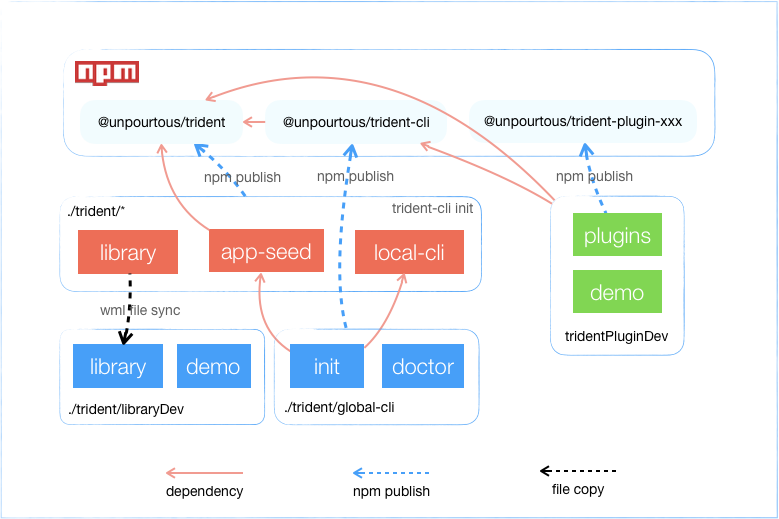
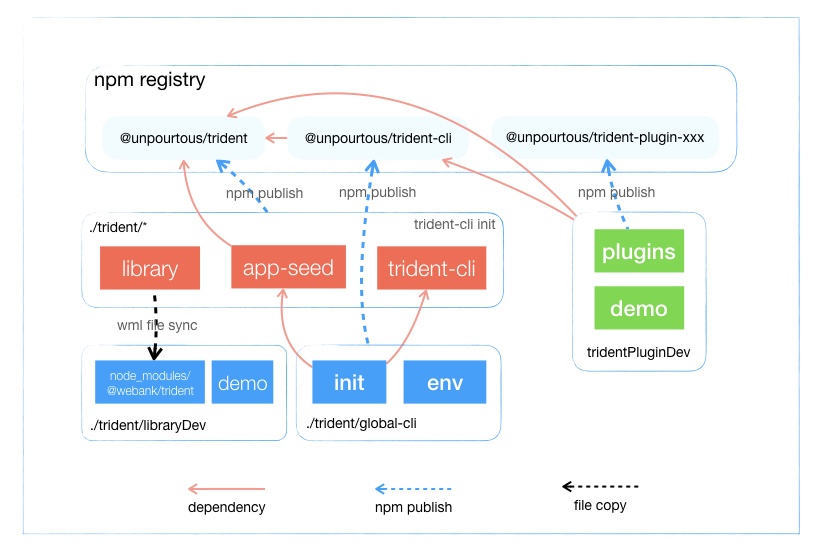
更新文档

diff --git a/docs/CONTRIBUTING.md b/docs/CONTRIBUTING.md
@@ -1,0 +1,179 @@
+---
+id: CONTRIBUTING
+title: CONTRIBUTING
+---
+
+# CONTRIBUTING
+本文档适用于希望参与WeTrident库开发和维护的开发者，非常期待你的参与。
+
+## 1. 下载项目代码库
+``` shell
+git clone git@github.com:WeBankFinTech/WeTrident.git
+
+cd WeTrident
+```
+
+PS: 本文档后续所有相对路径均以 `./WeTrident` 为根路径。
+
+## 2. 认识项目结构
+
+如下是WeTrident的关键目录: 
+
+```
+.
+├── __tests__         # 测试用例目录
+├── app-seed          # 项目模板，包含tab、blank等不同的模板
+├── docs              # 项目文档
+├── library           # WeTrident的核心模块，状态管理、导航、网络等
+├── libraryDev        # WeTrident开发过程中使用的工程，这是一个完整的WeTrident工程，兼具Demo的作用
+├── local-cli         # 跟随项目的 cli 工具，例如gen module/scene之类非全局命令
+├── package.json      # @webank/trident是以该目录作为根目录发布npm的
+├── traversal-server  # 页面自动化遍历对应的server
+├── trident-cli       # 全局的cli工具，主要包含环境检查和项目初始化命令
+├── trident-ui        # WeTrident配套的UI库
+└── website           # 官网目录
+```
+
+上面大概列举了各个关键目录的作用，下图说明了整个库里面各个子项目之间的关系。
+![子项目关系图](./assets/images/2019-05-14-14-10-08.png)
+
+WeTrident对应的npm库有两个： 
+- @webank/trident：WeTrident核心库
+- @webank/trident-cli：WeTrident 全局cli工具
+
+## 1. 依赖安装
+WeTrident倡导统一环境直接避免异构环境导致的时间浪费，所以建议初期全都使用统一的环境。
+
+WeTrident的开发过程中需要如下几个工具: 
+
+| 名称 | 用途 | 
+| --- | --- |
+| wml | 用于开发过程中的文件同步，实时同步library目录的修改到libraryDev/node_modules下的对应目录。 [安装指引](https://github.com/wix/wml) | 
+| verdaccio | 用于发布前本地模拟发布npm来做发布前的测试。 [安装指引](https://github.com/verdaccio/verdaccio) | 
+| nvm | 用于node版本的管理, WeTrident项目内统一使用nvm做node版本管理。 [安装指引](https://github.com/nvm-sh/nvm) | 
+
+上述几个基础工具安装完成以后安装WeTrident需要的node版本
+```
+nvm install
+```
+
+## 2. 启动 libraryDev
+如果没有安装`trident-cli`请先安装: 
+```
+npm i -g @webank/trident-cli
+
+
+cd libraryDev
+
+# 初始化安装依赖
+tdt install
+
+# 通过iOS模拟器启动libraryDev
+tdt run ios
+
+# 先启动Android模拟器再运行如下命令启动Android的libraryDev
+tdt run android
+```
+到这里，你已经启动了最新版的WeTrident Demo。
+
+## 3. 修改库文件
+上面一步只是启动Demo，这时候 libraryDev 引用到的trident版本仍然是外网已经发布的版本。
+如果希望让libraryDev引用本地的版本，只需要执行: 
+```
+npm run syncLib
+```
+这条命令负责把library和trident-ui两个目录拷贝到 libraryDev/node_modules/@webank/trident/library和libraryDev/node_modules/@webank/trident/trident-ui。
+运行成果以后命令行保持打开即可保持实时同步。 接下来修改library内的内容，则可以直接体现到demo上。
+
+### 新增依赖
+在library开发过程中，可能会需要引入新的库，因为我们基于libraryDev做开发，所以，首先我们需要在libraryDev/package.json内新增依赖说明。
+但是这还不够，因为对外发布以后，trident-cli 生成相关目是基于 app-seed 的，而 app-seed 依赖了@webank/trident，所以为了让这个依赖在使用WeTrident的开发者项目里面生效，需要将此依赖加到 './package.json'
+
+## 4. 本地模拟发布
+在正式发布前我们可以通过 verdaccio 模拟发布，以进行更接近真实使用环境的测试。
+
+a. 首先启动 verdaccio
+```
+verdaccio
+```
+
+b. 修改 ~/.npmrc 中的 registry 为 `http://localhost:4873/`
+
+c. 成功启动 verdaccio 以后运行下面命令发布到 verdaccio
+```
+npm run publishAll
+```
+该命令会发布 @webank/trident-cli和@webank/trident两个包，切发布前会删除 verdaccio 中的其他版本。
+
+## 5. 测试验证
+
+本地模拟发布完成以后，必须完成如下测试（目前只支持了核心命令和模块的测试，新增功能需要自行编写测试用例验证）才可以提交PR。
+```
+npm run e2e
+```
+根据指引进行测试验证，验证通过可以提交PR。
+
+## 6. CLI工具开发
+### trident-cli
+为了方便用户使用，专门开发了 @unpourtous/trident-cli 这个npm包，后面称为`trident-cli`，主要用于承载初始化工具以及和local-cli桥接。因为考虑到 trident-cli 会以npm全局模块的方式安装到用户开发环境，更新相比起来比较困难， trident-cli中内容要尽可能少，只提供最必须带命令。可以理解为项目创建前需要的工具纳入到`glocal-cli`中，项目创建后要用到带工具命令放入到 local-cli 中，local-cli 中可以放其版本对应的特有命令，trident-cli 必须放版本无关的命令。
+
+#### 调试本地命令
+cli 在开发过程中需要进行调试，所以，必然会有需要用本地的 trident-cli 调用本地的local-cli的情况，现在的脚本中已经支持了这种方式。需要调试cli脚本，只需要运行如下
+```
+export useLocal=true && ./trident-cli/index.js init testProj
+```
+
+## 7. 业务插件开发
+业务模块插件的开发是Trident的一大特色，开发者可以将自己某个独立可公用带业务模块以`trident-plugin`的形式输出。其他用户只需要通过 trident-cli 安装此业务插件即可使用这个公用带业务能力，常见带业务插件有 trident-plugin-feedback，trient-plugin-in-app-browser，trident-plugin-version-manager等。
+
+### 插件初始化
+
+如果您希望开发一个插件给别人使用，需要在项目根目录下运行
+
+```
+$ tdt plugin init [moduleName]
+```
+
+`moduleName`即为需要发布为插件的模块，此命令将在模块目录下初始化`package.json`，并自动添加`README.md`，开发者可以在 README.md 中补充插件说明。
+
+### 插件发布
+
+插件开发完成需要发布，在项目根目录下运行
+
+```
+$ tdt plugin publish [moduleName]
+```
+
+`moduleName`即为需要发布为插件的模块，此命令将抽取插件依赖更新至`package.json`，引导开发者更新插件版本号，执行插件发布。
+
+### 插件安装
+
+```
+$ tdt plugin add [pluginName]
+```
+
+## 8. 开发常用工具
+```shell
+# iOS模拟scheme拉起
+xcrun simctl openurl booted trident-scheme:///example/DemoScene?title=TestSchemeJump
+```
+
+```shell
+# Android模拟scheme拉起
+adb shell am start -W -a android.intent.action.VIEW -d "trident-scheme:///example/DemoScene?title=TestSchemeJump" org.reactnative.example
+```
+
+## 9. 文档发布说明
+```shell
+# 1. pack website
+cd website
+npm run pack-website
+
+# 打包完成以后website的压缩包为./website/release/website.tgz
+2. 发布到服务器 `/usr/share/nginx/html`，在服务器上运行如下命令上传文件，并解压到trident目录
+
+rz
+tar xzvf website.tgz -C trident
+
+```
+
